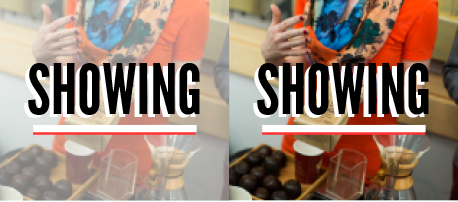
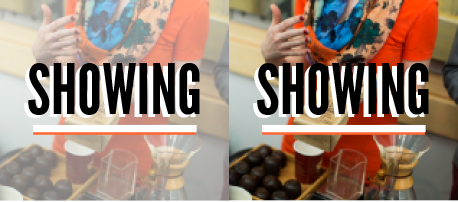
fixed nav images, added contact and faq structure

Changed region(s): [[0.5502, 0.6535, 0.9476, 0.6832], [0.0611, 0.6535, 0.4279, 0.6832]]

diff --git a/contact.html b/contact.html
@@ -1,0 +1,39 @@
+<!doctype html>
+<html>
+    <head>
+        <title>631 Oxford</title>
+        <link href="//netdna.bootstrapcdn.com/twitter-bootstrap/2.3.2/css/bootstrap-combined.min.css" rel="stylesheet">
+        <link href="css/flat-ui.css" rel="stylesheet" />
+        <link href="css/style.css" rel="stylesheet"/>
+        
+        <!-- <script src="js/main.js"></script> -->
+        <script src="js/jquery-1.7.2.min.js"> </script>
+        <script src="js/jquery-ui-1.8.22.custom.min.js"></script>
+
+    </head>
+    <body>
+        <div class="wrapper">
+            <div class="nav">
+                <ul>
+                    <li class="nav manifesto"><a href="manifesto.html">Our Manifesto</a></li>
+                    <li class="nav oxford"><a href="oxford.html">631 Oxford</a></li>
+                    <!--<li class="nav partners"><a href="">Partners</a></li>-->
+                    <li class="nav faq"><a href="faq.html">FAQ</a></li>
+                    <li class="nav contact active"><a href="">Contact</a></li>
+                </ul>
+            </div>
+            
+            <div class="body_contact">
+                <div class="banner"><img src="img/contact/contact.png"/></div>
+                <div class="content">
+                    <div class="contact">
+                        <div class="text">
+                              <img src="img/contact/shout.png"/></br></br></br>
+                              We&#39;d love to hear what&#39;s on your mind.  Drop us a note with questions, suggestions, collaborations, and any other wonderings you have.  If you&#39;re looking for a specific team member, feel free to make note of it.</br></br>
+                        </div></br></br></br>
+                    </div>
+                </div>
+            </div>
+        </div>
+    </body>
+</html>

diff --git a/faq.html b/faq.html
@@ -1,0 +1,35 @@
+<!doctype html>
+<html>
+    <head>
+        <title>631 Oxford</title>
+        <link href="//netdna.bootstrapcdn.com/twitter-bootstrap/2.3.2/css/bootstrap-combined.min.css" rel="stylesheet">
+        <link href="css/flat-ui.css" rel="stylesheet" />
+        <link href="css/style.css" rel="stylesheet"/>
+        
+        <!-- <script src="js/main.js"></script> -->
+        <script src="js/jquery-1.7.2.min.js"> </script>
+        <script src="js/jquery-ui-1.8.22.custom.min.js"></script>
+
+    </head>
+    <body>
+        <div class="wrapper">
+            <div class="nav">
+                <ul>
+                    <li class="nav manifesto"><a href="manifesto.html">Our Manifesto</a></li>
+                    <li class="nav oxford"><a href="oxford.html">631 Oxford</a></li>
+                    <!--<li class="nav partners"><a href="">Partners</a></li>-->
+                    <li class="nav faq active"><a href="">FAQ</a></li>
+                    <li class="nav contact"><a href="contact.html">Contact</a></li>
+                </ul>
+            </div>
+            
+            <div class="body_faq">
+                <div class="banner"><img src=""/></div>
+                <div class="content">
+                    <div class="faq">
+                    </div>
+                </div>
+            </div>
+        </div>
+    </body>
+</html>

diff --git a/css/style.css b/css/style.css
@@ -152,7 +152,7 @@ hr.line {
     width: 100%;
 }
 
-.body_manifesto {
+.body_manifesto, .body_oxford, .body_faq, .body_contact {
     background: white;
     font-family: "Kreon Light", serif;
     font-size: 20px;
@@ -247,14 +247,23 @@ a.learning.activeImage, a.showing:hover, a.showing.activeImage {
 
 /* ----------------------------- End Our Manifesto ----------------------------- */
 
-
 /* -------------------------------- 631 Oxford -------------------------------- */
 
 
-.body_oxford {
-    background: white;
-    font-family: "Kreon Light", serif;
-    font-size: 20px;
-}
+
 
 /* ------------------------------ End 631 Oxford ------------------------------ */
+
+/* ------------------------------------ FAQ ------------------------------------ */
+
+
+
+
+/* ---------------------------------- End FAQ ---------------------------------- */
+
+/* ---------------------------------- Contact ---------------------------------- */
+
+
+
+
+/* --------------------------------- End Contact ------------------------------- */

diff --git a/manifesto.html b/manifesto.html
@@ -41,8 +41,8 @@
                     $(this).addClass("activeImage");
                     document.getElementById("showing_text").style.display="inline";
                     $('#showing_text').siblings().css("display","none");
-                    $('.ourmanifesto').css("border-color","#ff3333");
-                    $('.ask li').css("background-color","#ff3333");
+                    $('.ourmanifesto').css("border-color","#ff6633");
+                    $('.ask li').css("background-color","#ff6633");
                 });
 
             });
